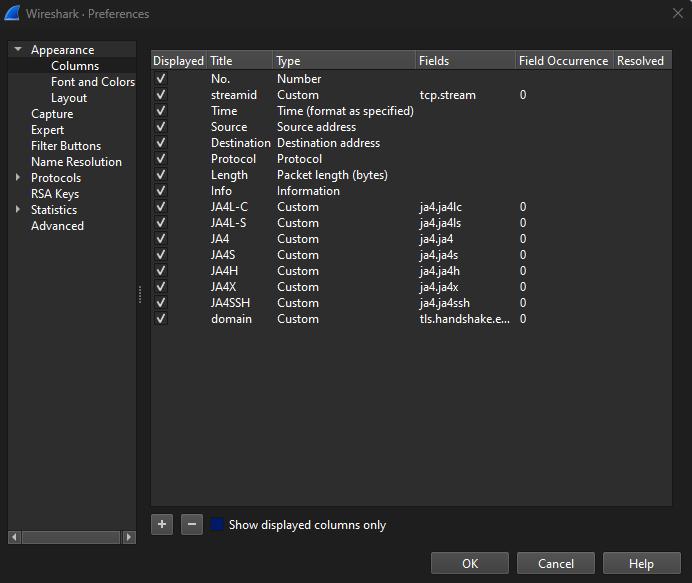
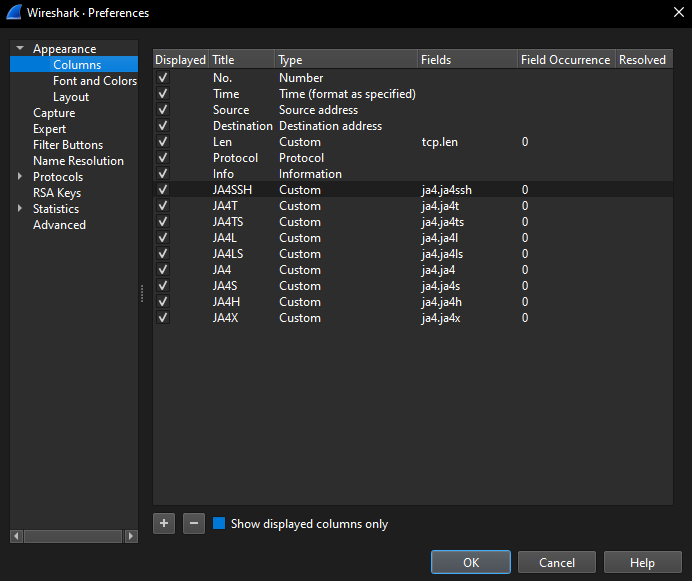
Adding JA4T to README

diff --git a/wireshark/README.md b/wireshark/README.md
@@ -27,10 +27,12 @@ JA4+ fields are under ja4.*
 JA4: ```ja4.ja4```  
 JA4S: ```ja4.ja4s```  
 JA4H: ```ja4.ja4h```  
-JA4L-C: ```ja4.ja4lc```  
-JA4L-S: ```ja4.ja4ls```  
+JA4L: ```ja4.ja4l```  
+JA4LS: ```ja4.ja4ls```  
 JA4X: ```ja4.ja4x```  
 JA4SSH: ```ja4.ja4ssh```  
+JA4T: ```ja4.ja4t```  
+JA4TS: ```ja4.ja4ts```  
 
 Add JA4+ to your columns for easy identification and sorting. Go to ```Preferences...``` and add as follows:
 
